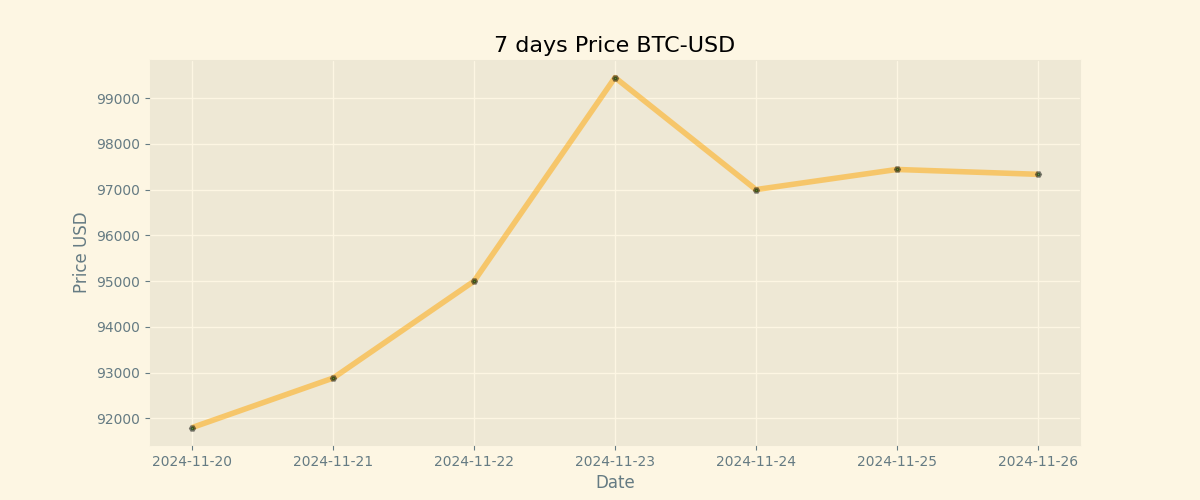
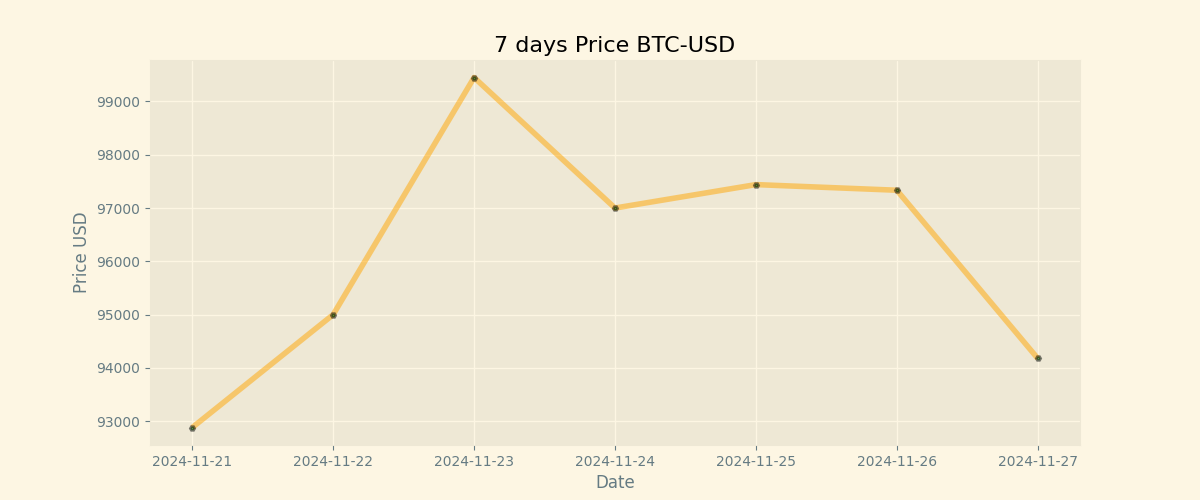
Duty Updates 2024-11-27

diff --git a/README.md b/README.md
@@ -9,8 +9,8 @@
 
 | Currency | Price           |
 | -------- | --------------- |
-| **BTC**  | **$ 97334.1** |
-| **ETH**  | **$ 3500.0** |
+| **BTC**  | **$ 94178.14** |
+| **ETH**  | **$ 3303.21** |
 
 ## BTC chart
 
